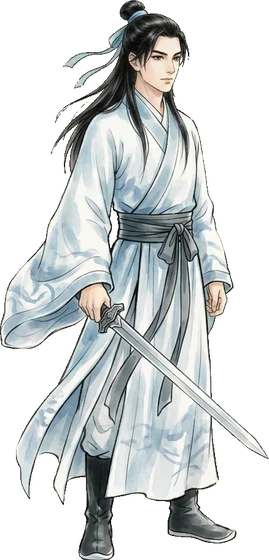
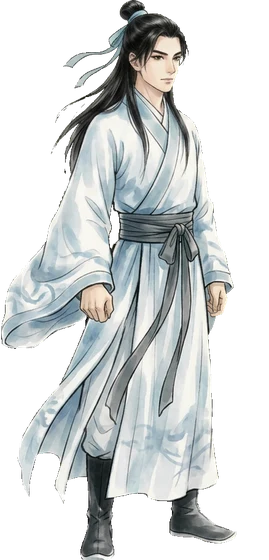
v161: 战斗画面人物持单独的剑并真正挥剑；名字移到标题（实力测试只显示境界）；人物怪物下移；战斗动画放慢1.6倍

diff --git a/web/css/style.css b/web/css/style.css
@@ -351,23 +351,24 @@ body.nologin #app, body.nologin #toast { display: none; }
 .btv-nm{margin-top:2px;padding:1px 12px;background:linear-gradient(#fbf3dc,#e7d3a5);border:1px solid #b89a63;border-radius:10px;color:#8a2b1c;font-size:13px;white-space:nowrap;max-width:100%;overflow:hidden;text-overflow:ellipsis}
 .btv-fx{position:absolute;inset:0;pointer-events:none}
 .btv-fx .l{left:22%}.btv-fx .r{left:76%}
-.btv-skill{position:absolute;top:24%;transform:translateX(-50%);color:#d8261b;font-size:20px;font-weight:bold;white-space:nowrap;text-shadow:0 0 4px #fff,0 0 8px #fff;animation:btv-up 1.2s ease-out forwards}
-.btv-pop{position:absolute;top:40%;transform:translateX(-50%);color:#e0281c;font-size:24px;font-weight:bold;white-space:nowrap;text-shadow:0 0 3px #fff,1px 1px 0 #fff;animation:btv-up 1.2s ease-out forwards}
+.btv-skill{position:absolute;top:24%;transform:translateX(-50%);color:#d8261b;font-size:20px;font-weight:bold;white-space:nowrap;text-shadow:0 0 4px #fff,0 0 8px #fff;animation:btv-up calc(1.2s * var(--bs,1)) ease-out forwards}
+.btv-pop{position:absolute;top:40%;transform:translateX(-50%);color:#e0281c;font-size:24px;font-weight:bold;white-space:nowrap;text-shadow:0 0 3px #fff,1px 1px 0 #fff;animation:btv-up calc(1.2s * var(--bs,1)) ease-out forwards}
 .btv-pop.crit{font-size:30px;color:#ff5a00}
 .btv-pop.gray{color:#555;font-size:18px}
 @keyframes btv-up{0%{opacity:0;margin-top:14px}15%{opacity:1;margin-top:0}75%{opacity:1}100%{opacity:0;margin-top:-26px}}
-.btv-lunge-l{animation:btv-lunge-l .8s ease-in-out;z-index:3}
-.btv-lunge-r{animation:btv-lunge-r .5s ease-in-out}
+.btv-lunge-l{animation:btv-lunge-l calc(.8s * var(--bs,1)) ease-in-out;z-index:3}
+.btv-lunge-r{animation:btv-lunge-r calc(.5s * var(--bs,1)) ease-in-out}
 @keyframes btv-lunge-l{0%,100%{transform:none}35%,72%{transform:translateX(var(--dx,120%))}}
 @keyframes btv-lunge-r{50%{transform:translateX(-80%)}}
-.btv-hit{animation:btv-hit .45s}
+.btv-hit{animation:btv-hit calc(.45s * var(--bs,1))}
 @keyframes btv-hit{0%,100%{transform:none;filter:none}20%{transform:translateX(8px);filter:brightness(1.8) sepia(1) hue-rotate(-40deg) saturate(4)}40%{transform:translateX(-8px)}60%{transform:translateX(5px)}80%{transform:translateX(-3px)}}
-.btv-dodge{animation:btv-dodge .5s}
+.btv-dodge{animation:btv-dodge calc(.5s * var(--bs,1))}
 @keyframes btv-dodge{50%{transform:translateX(-18px);opacity:.35}}
 .btv-u.r.btv-dodge{animation-name:btv-dodge-r}
 @keyframes btv-dodge-r{50%{transform:translateX(18px);opacity:.35}}
-.btv-cast img{animation:btv-cast .6s}
-.btv-u.l.btv-cast img{animation:btv-swing .6s ease-in-out,btv-cast .6s}
+.btv-cast img{animation:btv-cast calc(.6s * var(--bs,1))}
+.btv-u.l.btv-cast .btv-body{animation:btv-cast calc(.6s * var(--bs,1))}
+.btv-u.l.btv-cast .btv-sword{animation:btv-slash calc(.6s * var(--bs,1)) ease-in-out}
 @keyframes btv-cast{50%{filter:drop-shadow(0 0 14px #ffd36b) drop-shadow(0 0 24px #ffb43a) brightness(1.3)}}
 .btv-orb{position:absolute;top:52%;width:34px;height:34px;margin:-17px 0 0 -17px;border-radius:50%;background:radial-gradient(#fff,#ffe37a 35%,#ff9a2a 70%,transparent 72%);box-shadow:0 0 18px 8px #ffb43acc}
 .btv-orb.el-jin{background:radial-gradient(#fff,#ffe9a0 35%,#d8b13a 70%,transparent 72%);box-shadow:0 0 18px 8px #f3d36bcc}
@@ -375,16 +376,16 @@ body.nologin #app, body.nologin #toast { display: none; }
 .btv-orb.el-shui{background:radial-gradient(#fff,#9fd8ff 35%,#2e7fd9 70%,transparent 72%);box-shadow:0 0 18px 8px #4aa3ffcc}
 .btv-orb.el-huo{background:radial-gradient(#fff,#ffb27a 35%,#e8401c 70%,transparent 72%);box-shadow:0 0 18px 8px #ff6a2acc}
 .btv-orb.el-tu{background:radial-gradient(#fff,#e9c99a 35%,#a8742e 70%,transparent 72%);box-shadow:0 0 18px 8px #c9954acc}
-.btv-orb.go-r{animation:btv-go-r .55s ease-in forwards}
-.btv-orb.go-l{animation:btv-go-l .55s ease-in forwards}
+.btv-orb.go-r{animation:btv-go-r calc(.55s * var(--bs,1)) ease-in forwards}
+.btv-orb.go-l{animation:btv-go-l calc(.55s * var(--bs,1)) ease-in forwards}
 @keyframes btv-go-r{0%{left:24%;transform:scale(.4)}100%{left:76%;transform:scale(1.3)}}
 @keyframes btv-go-l{0%{left:76%;transform:scale(.4)}100%{left:24%;transform:scale(1.3)}}
 .btv-fb{position:absolute;top:46%;width:56px;height:10px;margin:-5px 0 0 -28px;background:linear-gradient(90deg,#8b5a1a,#ffe9a8 30%,#fff 60%,#ffd36b);clip-path:polygon(0 30%,78% 0,100% 50%,78% 100%,0 70%);filter:drop-shadow(0 0 6px #ffd36b) drop-shadow(0 0 12px #ffb43a)}
-.btv-fb.go-r{animation:btv-fb-r .65s ease-in forwards}
-.btv-fb.go-l{animation:btv-fb-l .65s ease-in forwards}
+.btv-fb.go-r{animation:btv-fb-r calc(.65s * var(--bs,1)) ease-in forwards}
+.btv-fb.go-l{animation:btv-fb-l calc(.65s * var(--bs,1)) ease-in forwards}
 @keyframes btv-fb-r{0%{left:24%;top:30%;transform:rotate(-30deg) scale(.6)}50%{top:20%;transform:rotate(0) scale(1.1)}100%{left:76%;top:52%;transform:rotate(25deg) scale(1.2)}}
 @keyframes btv-fb-l{0%{left:76%;top:30%;transform:rotate(210deg) scale(.6)}50%{top:20%;transform:rotate(180deg) scale(1.1)}100%{left:24%;top:52%;transform:rotate(155deg) scale(1.2)}}
-.btv-shield{position:absolute;top:58%;width:42%;aspect-ratio:1;transform:translate(-50%,-50%);border-radius:50%;border:2px solid #9fd8ffcc;background:radial-gradient(transparent 55%,#9fd8ff66);box-shadow:0 0 16px #9fd8ff;animation:btv-sh 1s ease-out forwards}
+.btv-shield{position:absolute;top:58%;width:42%;aspect-ratio:1;transform:translate(-50%,-50%);border-radius:50%;border:2px solid #9fd8ffcc;background:radial-gradient(transparent 55%,#9fd8ff66);box-shadow:0 0 16px #9fd8ff;animation:btv-sh calc(1s * var(--bs,1)) ease-out forwards}
 .btv-shield.gold{border-color:#ffd36bcc;background:radial-gradient(transparent 55%,#ffd36b66);box-shadow:0 0 16px #ffd36b}
 @keyframes btv-sh{0%{opacity:0;transform:translate(-50%,-50%) scale(.6)}30%{opacity:1;transform:translate(-50%,-50%) scale(1)}100%{opacity:0;transform:translate(-50%,-50%) scale(1.1)}}
 .btv-log{flex:1;min-height:0;overflow-y:auto;padding:8px 12px;background:#f3ebd6;font-size:15px;line-height:1.6}
@@ -423,18 +424,27 @@ button small .cd{min-width:0}
 .btv-u.l img{max-height:76%;transform-origin:45% 95%}
 .btv-u.r img{transform-origin:50% 95%}
 @keyframes btv-swing{0%,100%{transform:none}35%{transform:rotate(-7deg)}60%{transform:rotate(11deg) translateX(6%)}}
-.btv-lunge-l img{animation:btv-swing-hit .8s ease-in-out}
+.btv-lunge-l .btv-sword{animation:btv-slash-hit calc(.8s * var(--bs,1)) ease-in-out}
 @keyframes btv-swing-hit{0%,36%,100%{transform:none}45%{transform:rotate(-10deg)}56%{transform:rotate(16deg) translateX(8%)}68%{transform:none}}
-.btv-pounce-r{animation:btv-pounce-r .8s ease-in-out;z-index:3}
+.btv-pounce-r{animation:btv-pounce-r calc(.8s * var(--bs,1)) ease-in-out;z-index:3}
 @keyframes btv-pounce-r{0%,100%{transform:none}10%{transform:translateY(4%) scaleY(.92)}30%{transform:translate(calc(var(--dx,-120%) * .55),-22%) rotate(-10deg)}48%{transform:translateX(var(--dx,-120%)) rotate(-16deg) scale(1.1)}58%{transform:translateX(var(--dx,-120%)) rotate(-4deg)}72%{transform:translateX(var(--dx,-120%))}}
-.btv-claw-r,.btv-wave-r{animation:btv-claw-r .8s ease-in-out;z-index:3}
+.btv-claw-r,.btv-wave-r{animation:btv-claw-r calc(.8s * var(--bs,1)) ease-in-out;z-index:3}
 @keyframes btv-claw-r{0%,100%{transform:none}35%,72%{transform:translateX(var(--dx,-120%))}}
-.btv-claw-r img{animation:btv-claw2 .8s ease-in-out}
-.btv-wave-r img{animation:btv-wave .8s ease-in-out}
+.btv-claw-r img{animation:btv-claw2 calc(.8s * var(--bs,1)) ease-in-out}
+.btv-wave-r img{animation:btv-wave calc(.8s * var(--bs,1)) ease-in-out}
 @keyframes btv-claw2{0%,36%,72%,100%{transform:none}44%{transform:rotate(8deg)}52%{transform:rotate(-12deg) translateX(-5%)}60%{transform:rotate(6deg)}66%{transform:rotate(-10deg) translateX(-4%)}}
 @keyframes btv-wave{0%,36%,72%,100%{transform:none}46%{transform:rotate(12deg)}58%{transform:rotate(-18deg) translateX(-7%)}}
-.btv-mpounce{animation:btv-mpounce .6s ease-in-out}
+.btv-mpounce{animation:btv-mpounce calc(.6s * var(--bs,1)) ease-in-out}
 @keyframes btv-mpounce{0%,100%{transform:none}30%{transform:translate(4%,0) scaleY(.94)}55%{transform:translate(-14%,-8%) rotate(-7deg)}}
-.btv-mwave img{animation:btv-mwave .6s ease-in-out}
+.btv-mwave img{animation:btv-mwave calc(.6s * var(--bs,1)) ease-in-out}
 @keyframes btv-mwave{0%,100%{transform:none}35%{transform:rotate(8deg)}60%{transform:rotate(-12deg) translateX(-5%)}}
-.btv-mwave.btv-cast img{animation:btv-mwave .6s ease-in-out,btv-cast .6s}
+.btv-mwave.btv-cast img{animation:btv-mwave calc(.6s * var(--bs,1)) ease-in-out,btv-cast calc(.6s * var(--bs,1))}
+
+/* v161 名字不显示，人物 / 怪物往下；人物空手 + 单独的剑，攻击时挥剑 */
+.btv-nm{display:none}
+.btv-u{bottom:0}
+.btv-u.l .btv-hero{position:relative;height:80%;aspect-ratio:269/560}
+.btv-u.l .btv-hero .btv-body{position:absolute;inset:0;width:100%;height:100%;max-height:none;filter:drop-shadow(0 4px 6px #0006)}
+.btv-u.l .btv-hero .btv-sword{position:absolute;left:24.4%;top:52.4%;width:94%;height:auto;max-height:none;max-width:none;transform-origin:12.3% 50%;transform:rotate(40deg);filter:drop-shadow(0 2px 3px #0005)}
+@keyframes btv-slash{0%,100%{transform:rotate(40deg)}40%{transform:rotate(-110deg)}62%{transform:rotate(75deg)}80%{transform:rotate(40deg)}}
+@keyframes btv-slash-hit{0%,34%,100%{transform:rotate(40deg)}46%{transform:rotate(-110deg)}58%{transform:rotate(80deg)}72%{transform:rotate(40deg)}}

diff --git a/web/index.html b/web/index.html
@@ -6,7 +6,7 @@
 <meta name="theme-color" content="#14110f">
 <meta name="apple-mobile-web-app-capable" content="yes">
 <title>问道长生 · 文字修仙</title>
-<link rel="stylesheet" href="css/style.css?v=108">
+<link rel="stylesheet" href="css/style.css?v=109">
 </head>
 <body class="nologin">
 <div id="app">
@@ -53,76 +53,76 @@
     b.textContent += "脚本错误：" + e.filename.split("/").slice(-2).join("/").split("?")[0] + " 第 " + e.lineno + " 行：" + e.message + "\n";
   });
 </script>
-<script src="js/config/realm.js?v=108"></script>
-<script src="js/config/player.js?v=108"></script>
-<script src="js/config/array.js?v=108"></script>
-<script src="js/config/mobs.js?v=108"></script>
-<script src="js/config/explore.js?v=108"></script>
-<script src="js/config/drops.js?v=108"></script>
-<script src="js/config/worldmaps.js?v=108"></script>
-<script src="js/config/xingjun.js?v=108"></script>
-<script src="js/config/battle.js?v=108"></script>
-<script src="js/config/equip.js?v=108"></script>
-<script src="js/config/start.js?v=108"></script>
-<script src="js/config/gongfa.js?v=108"></script>
-<script src="js/config/lingen.js?v=108"></script>
-<script src="js/config/items.js?v=108"></script>
-<script src="js/config/alchemy.js?v=108"></script>
-<script src="js/config/furnace.js?v=108"></script>
-<script src="js/config/forge.js?v=108"></script>
-<script src="js/config/garden.js?v=108"></script>
-<script src="js/config/trib.js?v=108"></script>
-<script src="js/config/servant.js?v=108"></script>
-<script src="js/config/sect.js?v=108"></script>
-<script src="js/config/wudao.js?v=108"></script>
-<script src="js/config/craftsman.js?v=108"></script>
-<script src="js/config/mijing.js?v=108"></script>
-<script src="js/config/lingdi.js?v=108"></script>
-<script src="js/config/body.js?v=108"></script>
-<script src="js/config/names.js?v=108"></script>
-<script src="js/config/shenshi.js?v=108"></script>
+<script src="js/config/realm.js?v=109"></script>
+<script src="js/config/player.js?v=109"></script>
+<script src="js/config/array.js?v=109"></script>
+<script src="js/config/mobs.js?v=109"></script>
+<script src="js/config/explore.js?v=109"></script>
+<script src="js/config/drops.js?v=109"></script>
+<script src="js/config/worldmaps.js?v=109"></script>
+<script src="js/config/xingjun.js?v=109"></script>
+<script src="js/config/battle.js?v=109"></script>
+<script src="js/config/equip.js?v=109"></script>
+<script src="js/config/start.js?v=109"></script>
+<script src="js/config/gongfa.js?v=109"></script>
+<script src="js/config/lingen.js?v=109"></script>
+<script src="js/config/items.js?v=109"></script>
+<script src="js/config/alchemy.js?v=109"></script>
+<script src="js/config/furnace.js?v=109"></script>
+<script src="js/config/forge.js?v=109"></script>
+<script src="js/config/garden.js?v=109"></script>
+<script src="js/config/trib.js?v=109"></script>
+<script src="js/config/servant.js?v=109"></script>
+<script src="js/config/sect.js?v=109"></script>
+<script src="js/config/wudao.js?v=109"></script>
+<script src="js/config/craftsman.js?v=109"></script>
+<script src="js/config/mijing.js?v=109"></script>
+<script src="js/config/lingdi.js?v=109"></script>
+<script src="js/config/body.js?v=109"></script>
+<script src="js/config/names.js?v=109"></script>
+<script src="js/config/shenshi.js?v=109"></script>
 <!-- 自定义物品、坊市、宗门宝库、地图掉落（不是数值文件） -->
-<script src="js/content/items.js?v=108"></script>
-<script src="js/data/names.js?v=108"></script>
-<script src="js/data/realms.js?v=108"></script>
-<script src="js/data/pills.js?v=108"></script>
-<script src="js/data/cave.js?v=108"></script>
-<script src="js/data/sects.js?v=108"></script>
-<script src="js/data/gongfa.js?v=108"></script>
-<script src="js/data/items.js?v=108"></script>
-<script src="js/data/maps.js?v=108"></script>
-<script src="js/data/jiegf.js?v=108"></script>
-<script src="js/data/craft.js?v=108"></script>
-<script src="js/data/forge.js?v=108"></script>
-<script src="js/data/refstats.js?v=108"></script>
-<script src="js/data/mobs.js?v=108"></script>
+<script src="js/content/items.js?v=109"></script>
+<script src="js/data/names.js?v=109"></script>
+<script src="js/data/realms.js?v=109"></script>
+<script src="js/data/pills.js?v=109"></script>
+<script src="js/data/cave.js?v=109"></script>
+<script src="js/data/sects.js?v=109"></script>
+<script src="js/data/gongfa.js?v=109"></script>
+<script src="js/data/items.js?v=109"></script>
+<script src="js/data/maps.js?v=109"></script>
+<script src="js/data/jiegf.js?v=109"></script>
+<script src="js/data/craft.js?v=109"></script>
+<script src="js/data/forge.js?v=109"></script>
+<script src="js/data/refstats.js?v=109"></script>
+<script src="js/data/mobs.js?v=109"></script>
 
-<script src="js/core/util.js?v=108"></script>
-<script src="js/core/api.js?v=108"></script>
-<script src="js/core/game.js?v=108"></script>
+<script src="js/core/util.js?v=109"></script>
+<script src="js/core/api.js?v=109"></script>
+<script src="js/core/game.js?v=109"></script>
 
-<script src="js/modules/player.js?v=108"></script>
-<script src="js/modules/cave.js?v=108"></script>
-<script src="js/modules/bag.js?v=108"></script>
-<script src="js/modules/custom.js?v=108"></script>
-<script src="js/modules/gongfa.js?v=108"></script>
-<script src="js/modules/sect.js?v=108"></script>
-<script src="js/modules/cultivate.js?v=108"></script>
-<script src="js/modules/trib.js?v=108"></script>
-<script src="js/modules/body.js?v=108"></script>
-<script src="js/modules/world.js?v=108"></script>
-<script src="js/modules/xingjun.js?v=108"></script>
-<script src="js/modules/lingen.js?v=108"></script>
-<script src="js/modules/craft.js?v=108"></script>
-<script src="js/modules/wudao.js?v=108"></script>
-<script src="js/modules/shenshi.js?v=108"></script>
-<script src="js/modules/garden.js?v=108"></script>
-<script src="js/modules/servant.js?v=108"></script>
-<script src="js/modules/gift.js?v=108"></script>
-<script src="js/modules/accounts.js?v=108"></script>
-<script src="js/modules/battleset.js?v=108"></script>
-<script src="js/modules/account.js?v=108"></script>
-<script src="js/core/fastsim.js?v=108"></script>
+<script src="js/modules/player.js?v=109"></script>
+<script src="js/modules/cave.js?v=109"></script>
+<script src="js/modules/bag.js?v=109"></script>
+<script src="js/modules/custom.js?v=109"></script>
+<script src="js/modules/gongfa.js?v=109"></script>
+<script src="js/modules/sect.js?v=109"></script>
+<script src="js/modules/cultivate.js?v=109"></script>
+<script src="js/modules/trib.js?v=109"></script>
+<script src="js/modules/body.js?v=109"></script>
+<script src="js/modules/world.js?v=109"></script>
+<script src="js/modules/xingjun.js?v=109"></script>
+<script src="js/modules/lingen.js?v=109"></script>
+<script src="js/modules/craft.js?v=109"></script>
+<script src="js/modules/wudao.js?v=109"></script>
+<script src="js/modules/shenshi.js?v=109"></script>
+<script src="js/modules/garden.js?v=109"></script>
+<script src="js/modules/servant.js?v=109"></script>
+<script src="js/modules/gift.js?v=109"></script>
+<script src="js/modules/accounts.js?v=109"></script>
+<script src="js/modules/battleset.js?v=109"></script>
+<script src="js/modules/account.js?v=109"></script>
+<script src="js/core/fastsim.js?v=109"></script>
 
 <script>G.init();</script>
 </body>

diff --git a/web/js/modules/world.js b/web/js/modules/world.js
@@ -359,14 +359,15 @@ G.module({
       const bp = this._bp = { b, title, txt, win, logs: logs || [[txt, win ? "gold" : "bad"]], acts: b.log.slice(), shown: 0, t0: Date.now(), done: false, replay: !!replay, test: !!opt.test, sum: [0, 0], hp: [b.me[0], b.mob[0]] };
       this._lockModal = true;
       const v = DATA.IMG_V, mi = this.battleMobImg(b);
-      this.modal(`<div class="btv">
-        <div class="btv-title">${title}</div>
+      // v161 名字不放在人物 / 怪物脚下，怪物名字放标题后面（opt.tname 可改标题里显示的名字）
+      this.modal(`<div class="btv" style="--bs:${CFG.battle.ANIM_SLOW || 1}">
+        <div class="btv-title">${title} · ${opt.tname || b.name}</div>
         <div class="btv-stage" style="background-image:url(img/bt_bg.webp?v=${v})">
           <div class="btv-hp l"><div class="btv-bar"><i id="bt-hp0"></i></div><span id="bt-hpt0"></span></div>
           <div class="btv-zhan">战</div>
           <div class="btv-hp r"><div class="btv-bar"><i id="bt-hp1"></i></div><span id="bt-hpt1"></span></div>
-          <div class="btv-u l" id="bt-u0"><img src="img/bt_hero.webp?v=${v}" alt=""><div class="btv-nm">${this.s.name || "你"}</div></div>
-          <div class="btv-u r" id="bt-u1"><img src="${mi.src}" onerror="this.onerror=null;this.src='${mi.alt}'" alt=""><div class="btv-nm">${b.name}</div></div>
+          <div class="btv-u l" id="bt-u0"><div class="btv-hero"><img class="btv-body" src="img/bt_hero.webp?v=${v}" alt=""><img class="btv-sword" src="img/bt_sword.webp?v=${v}" alt=""></div></div>
+          <div class="btv-u r" id="bt-u1"><img src="${mi.src}" onerror="this.onerror=null;this.src='${mi.alt}'" alt=""></div>
           <div class="btv-fx" id="bt-fx"></div>
         </div>
         ${opt.test ? `<div class="btv-sum" id="bt-sum"></div>` : ""}
@@ -413,7 +414,8 @@ G.module({
       // v160 同一个元素只留一个动作 class（否则 CSS 里后写的动作会盖掉新动作，看起来原地不动）
       const ALL = ["btv-hit", "btv-dodge", "btv-lunge-l", "btv-pounce-r", "btv-claw-r", "btv-wave-r", "btv-mpounce", "btv-mwave", "btv-cast"];
       const re = (el, c) => { ALL.forEach(x => el.classList.remove(x)); void el.offsetWidth; el.classList.add(c); };
-      const add = (cls, txt, side, ms) => { const n = document.createElement("div"); n.className = cls + " " + (side ? "r" : "l"); if (txt) n.textContent = txt; fxEl.appendChild(n); setTimeout(() => n.remove(), ms || 1200); return n; };
+      const SL = CFG.battle.ANIM_SLOW || 1;   // v161 动画放慢倍数
+      const add = (cls, txt, side, ms) => { ms = (ms || 1200) * SL; const n = document.createElement("div"); n.className = cls + " " + (side ? "r" : "l"); if (txt) n.textContent = txt; fxEl.appendChild(n); setTimeout(() => n.remove(), ms || 1200); return n; };
       const el = b.el && !w ? "" : b.el;   // 怪物法术 / 法宝带属性色
       const name = k === 1 ? (w ? (b.el ? DATA.elById[b.el].name + "系法术" : "法术") : (b.sp[sp] || "法术")) : k === 2 ? (w || !b.sp[sp] ? "法宝" : b.sp[sp]) : k === 3 ? (b.sp[sp] || "护盾") : k === 5 ? "金蝉秘法" : "";
       if (name) add("btv-skill", name, w);
@@ -430,9 +432,9 @@ G.module({
           const dx = w ? (t.right - a.left) - a.width * 0.25 : (t.left - a.right) + a.width * 0.25; me.style.setProperty("--dx", Math.round(dx) + "px"); }
         re(me, c); if (k !== 0 && (k === 1 || k === 2)) me.classList.add("btv-cast"); };
       if (k === 1 || k === 2) { if (w) mv(Math.random() < 0.5 ? "btv-mpounce" : "btv-mwave"); }
-      if (k === 0) { mv(w ? ["btv-pounce-r", "btv-claw-r", "btv-wave-r"][Math.floor(Math.random() * 3)] : "btv-lunge-l"); setTimeout(hit, 430); }
-      else if (k === 1) { if (!w) re(me, "btv-cast"); add("btv-orb " + (w ? "go-l" : "go-r") + (el ? " el-" + el : ""), "", w, 700); setTimeout(hit, 520); }
-      else if (k === 2) { if (!w) re(me, "btv-cast"); add("btv-fb " + (w ? "go-l" : "go-r"), "", w, 800); setTimeout(hit, 600); }
+      if (k === 0) { mv(w ? ["btv-pounce-r", "btv-claw-r", "btv-wave-r"][Math.floor(Math.random() * 3)] : "btv-lunge-l"); setTimeout(hit, 430 * SL); }
+      else if (k === 1) { if (!w) re(me, "btv-cast"); add("btv-orb " + (w ? "go-l" : "go-r") + (el ? " el-" + el : ""), "", w, 700); setTimeout(hit, 520 * SL); }
+      else if (k === 2) { if (!w) re(me, "btv-cast"); add("btv-fb " + (w ? "go-l" : "go-r"), "", w, 800); setTimeout(hit, 600 * SL); }
       else if (k === 3) { add("btv-shield", "", w, 1000); this.btHp(); }
       else if (k === 4) { add("btv-pop gray", "眩晕", w); this.btHp(); }
       else { add("btv-shield gold", "", w, 1000); this.btHp(); }

diff --git a/web/js/modules/sect.js b/web/js/modules/sect.js
@@ -432,7 +432,7 @@ G.module({
       const v = x => x * DATA.mobRnd();   // 和地图普通怪一样每项随机浮动
       const m = this.addMagic({ name: this.testMobName(), kind: "normal", hp: v(b.hp), atk: v(b.atk), def: v(b.def), speed: v(b.speed), hit: v(b.hit), dodge: v(b.dodge), mana: v(b.mana), res: v(b.res), manaBr: b.manaBr, crit: b.crit }, "normal");
       const res = this.battle(m, { test: true });
-      this.playBattle(res.detail, "实力测试", "", true, [], false, { test: true });
+      this.playBattle(res.detail, "实力测试", "", true, [], false, { test: true, tname: `${DATA.realms[this.testPick().r]}${DATA.layerNames[this.testPick().l - 1]}` });
     },
     testView() {
       const p = this.testPick(), t = this.testMobT(), b = DATA.mobStats(t, DATA.mobCrit("普通")), gf = this.testMobGf(t), M = (CFG.mobs.magic || {}).normal || {};

diff --git a/web/js/data/forge.js b/web/js/data/forge.js
@@ -267,7 +267,7 @@ DATA.fabaoInfo = (e, own) => {
  *   img/icons/pill_丹药id.png 修炼丹、dan_类型.png 属性丹、fu_dan / fu_qi.png 炉子、ss.png 空间石
  *   fbs形状_属性.png 法宝（7 种形状 × 6 种属性）、sm_ys属性.png 耀石、mifa.png 秘法、seed.png 种子、stone.png 灵石、cu_*.png 自定义物品
  *   hx.png 火髓、bp.png 图纸 */
-DATA.IMG_V = 3;
+DATA.IMG_V = 4;
 DATA.matImg = (kind, g) => `img/mats/${kind}${g}.png?v=${DATA.IMG_V}`;
 DATA.iconImg = n => `img/icons/${n}.png?v=${DATA.IMG_V}`;
 DATA.ICON_EQ = ["helmet", "armor", "weapon", "legs", "boots", "pendant", "ring"];
